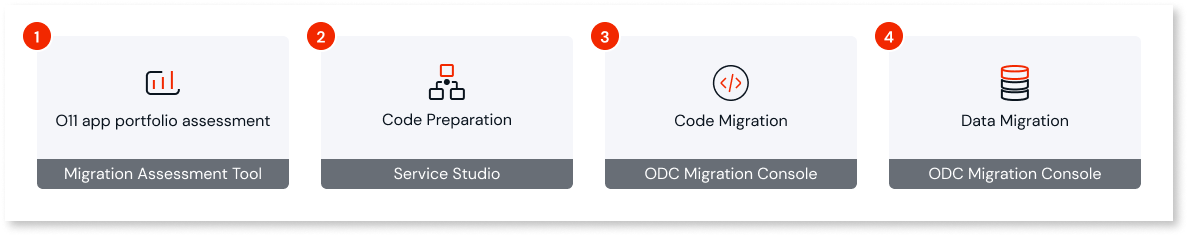
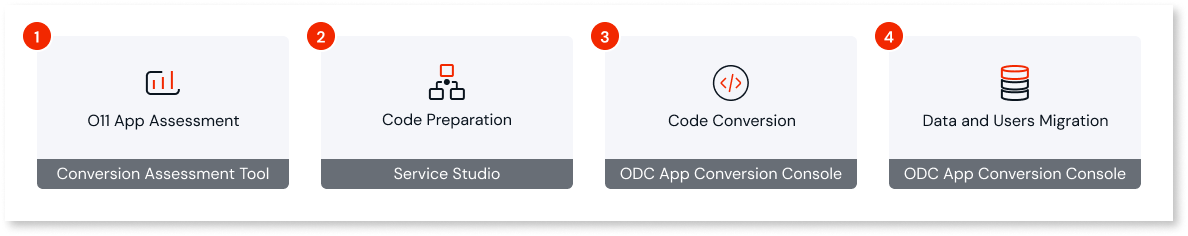
TK-18284 Revamp conversion top level pages

diff --git a/src/migration-to-odc/migration-intro.md b/src/migration-to-odc/migration-intro.md
@@ -1,11 +1,11 @@
 ---
-summary: A comprehensive guide to the process for migrating your apps from O11 to OutSystems Developer Cloud (ODC), including planning, phased migration, and the support available from documentation.
+summary: A comprehensive guide of the process for converting your apps from O11 to OutSystems Developer Cloud (ODC).
 locale: en-us
 guid: 0a6f2684-c594-4eca-9cbf-0780c9b3c5ae
 app_type: traditional web apps, mobile apps, reactive web apps
 platform-version: o11
 figma: https://www.figma.com/file/daglmSUESdKw9J3HdT87a8/O11-to-ODC-migration?type=design&node-id=20%3A241&mode=design&t=IqPW9GPcaNRalD3r-1
-tags: cloud migration, app modernization, cloud-native architecture, scaling strategies, automation tools
+tags: app conversion, app modernization, cloud-native architecture, scaling strategies, automation tools
 audience:
   - full stack developers
   - platform administrators
@@ -13,136 +13,62 @@ audience:
 outsystems-tools:
   - service studio
   - lifetime
+  - app conversion kit
 coverage-type:
   - apply
   - understand
 ---
 
-# OutSystems 11 to ODC migration
+# OutSystems 11 to ODC conversion
 
-Our goal is to enable you to convert your current O11 app portfolio into native ODC apps. Once converted and published on ODC, these apps can leverage all current and future ODC capabilities, such as cloud-native architecture, limitless scaling, and new AI features for businesses and developers.
+The O11 to ODC App Conversion Kit provides the required guidance and tooling to assess the ODC-readiness of the O11 apps you want to convert, prepare them for ODC architecture, and execute a self-paced conversion.
 
-OutSystems provides documentation and migration tools to ease and automate the process of migrating from O11 to ODC code and data.
+![Graphic representation of the supporting materials provided by OutSystems for the conversion from O11 to ODC](images/o11-odc-migration-kit-diag.png "O11 to ODC App Conversion Kit")
 
-![Graphic representation of the supporting materials provided by OutSystems for the migration from O11 to ODC](images/o11-odc-migration-kit-diag.png "O11 to ODC Migration Support Material")
+## Conversion stages
 
-With that in mind, the following topics help you understand the migration process.
+This section gives an overview of the process to convert an O11 app to ODC.
 
-## How to plan for migration
+![Comprehensive diagram outlining the stages of the conversion process from O11 to ODC](images/migration-process-diag.png "Overall Conversion Process Diagram")
 
-OutSystems is committed to making sure that you have an easy migration process and one that fits smoothly into your development team's schedule. You can migrate on a timeline that takes into account your app portfolio and business demand.
+### Stage 1: Plan for the O11 app conversion
 
-Depending on the size of your app portfolio, you may follow different migration journeys. 
+ODC apps are designed to take advantage of cloud-native architecture and microservices design, which promote application-independent lifecycle and ownership. To take full advantage of ODC capabilities, you must ensure your O11 app architecture is aligned with ODC architecture best practices, and assess the ODC-readiness by identifying code patterns that may require refactoring.
 
-* **One-shot migration** is suitable for smaller app portfolios (infrastructures with less than 2 business apps) with up to 300 application objects. You can choose to migrate the entire portfolio at once and have it ported to ODC in a short timeframe.
+Outcomes:
 
-    ![Diagram showing the one-shot migration process for small app portfolios from O11 to ODC](images/one-shot-migration-diag.png "One-Shot Migration Diagram")
+* Visibility over necessary adjustments to convert O11 apps to ODC-compatible apps.  
+* Guidance on how to map existing O11 patterns into ODC constructs.  
+* Overview of the applicational domains, understanding boundaries and app domain prioritization.
 
-* **Coexistence**  is suitable for larger app portfolios (infrastructures with more than 2 apps) where it is essential to continue providing business value and, at the same time, work on the migration activities. With this migration journey, new apps can be created in ODC while you independently migrate apps from O11.
+### Stage 2: Prepare for O11 app conversion
 
-    * **Start using ODC**: ODC tenant for new apps, ability to leverage existing O11 components such as integrations and master data.
+Once you’ve completed the assessment of your O11 app and identified the patterns that are inconsistent with ODC, you must refactor your O11 app in Service Studio to make them ODC compatible, and test the refactored O11 app. This ensures a smooth conversion to ODC:
 
-    * **Prepare and progressively migrate O11 apps**: Assess and migrate O11 apps that will benefit most from ODC capabilities.
+Outcomes:
 
-    * **Complete migration of all apps**: Assess and migrate more complex O11 apps.
-
-    ![Diagram depicting the phased approach for migrating larger app portfolios from O11 to ODC](images/migration-phased-approach-diag.png "Phased Approach to Migration Diagram")
-
-## How migration capabilities will be delivered
-
-Migration capabilities will be delivered incrementally, addressing the most common use cases first, then progressing to more complex ones, and finally aligning with all ODC capabilities. 
-
-![Timeline showing the incremental delivery of migration capabilities from O11 to ODC](images/migration-toolkit-value.png "Migration Capabilities Delivery Timeline")
-
-## Migration stages
-
-![Comprehensive diagram outlining the stages of the migration process from O11 to ODC](images/migration-process-diag.png "Overall Migration Process Diagram")
-
-### Stage 1: Plan for the O11 app migration
-
-ODC applications are designed to take advantage of cloud-native architecture and microservices design, which promote application-independent lifecycle and ownership.
-To take full advantage of ODC capabilities, you must first adjust the O11 app architecture to align with ODC architecture best practices and identify code patterns that require refactoring. 
-
-As you plan for the O11 app migration, you must:
-
-1. Identify the O11 apps to be migrated to ODC, and depending on the complexity of your infrastructure and your team capacity,  choose either one of the migration journeys:
-    * One-shot migration approach
-    * O11-ODC app coexistence approach
-
-1. Design the to-be ODC architecture blueprint.
-
-1. Map the O11 apps to ODC assets.
-
-1. Identify any architectural inconsistencies in your O11 app and adjust the architecture.
-
-1. Estimate the effort required to refactor your O11 app to be ODC compatible. 
-
-#### Outcomes
-
-* Visibility over necessary code adjustments to convert O11 code to ODC-compatible code.
-
-* Guidance on how to map existing O11 code patterns into ODC constructs.
-
-* Overview of the entire factory applicational domains, understanding boundaries and domain prioritization.
-
-
-### Stage 2: Prepare for O11 app migration
-
-Once you have completed the assessment of your O11 apps and identified the inconsistencies in code patterns, you must:
-
-1. Refactor your O11 app in Service Studio to make it ODC compatible. This ensures smooth migration of your O11 app to ODC. 
-
-1. Deploy the refactored app to QA.
-
-1. Test your refactored O11 app.
-
-1. Adjust your development sprints to include O11 app refactoring and O11 app testing, prioritizing them according to your migration timelines.
-
-#### Outcomes
-
-* Implementation of O11 code refactorings to be ODC-compatible
-
+* Implementation of O11 app refactorings to be ODC-compatible.  
 * Testing of your refactored O11 app.
 
+### Stage 3: Execute the code conversion
 
-### Stage 3: Execute the O11 app migration
+Once you’ve prepared your O11 app to align with ODC architecture, you can convert the O11 code to ODC-native code, and publish the converted code to your ODC tenant.
 
-Once you’ve completed the assessment and refactoring of your O11 app, you must:
+Outcomes:
 
-1. Migrate the O11 code to ODC-compatible code.
+* Your O11 app code is converted to ODC.  
+* The app’s O11 entities are mapped into ODC counterparts.  
+* The converted ODC app is published and tested in an ODC development stage.
 
-1. Upload the migrated code to an ODC tenant.
+### Stage 4: Execute the data and users migration
 
-1. Perform additional refactoring of the migrated ODC app.
+After testing and ensuring your app is running as expected in ODC, you can migrate your O11 data and end users to ODC.
 
-1. Test and publish the migrated app.
+Outcomes:
 
-1. Migrate the O11 data to ODC-compatible data.
+* The O11 business data is migrated to the corresponding ODC entities.  
+* The O11 end users are migrated alongside business data.
 
-1. Migrate the O11 end-users.
+## Next steps
 
-1. Configure the migrated ODC app.
-
-#### Outcomes
-
-* O11 app code and data are migrated to ODC.
-
-* O11 entities are mapped into ODC counterparts.
-
-* O11 end-users are migrated to ODC end-users.
-
-* The migrated ODC app is tested and published.
-
-### Stage 4: Launch the ODC app
-
-After migrating the O11 code, data, and end-users and publishing it on ODC, you can test the ODC app and finally launch the migrated ODC app for your end-users.
-
-#### Outcomes
-
-* Migrated ODC app is tested and published.
-
-* The migrated ODC app is launched in Production.
-
-## Starting your migration journey
-
-Start by [planning your apps migration](plan/plan-intro.md).
+Start by [planning your apps conversion](plan/plan-intro.md).

diff --git a/src/migration-to-odc/plan/plan-intro.md b/src/migration-to-odc/plan/plan-intro.md
@@ -1,11 +1,11 @@
 ---
-summary: Plan and prepare app migration from OutSystems 11 (O11) to OutSystems Developer Cloud (ODC).
+summary: Plan app conversion from OutSystems 11 (O11) to OutSystems Developer Cloud (ODC).
 locale: en-us
 guid: 788a3d99-a2fe-4fa2-b868-d2851cd2ffb8
 app_type: traditional web apps, mobile apps, reactive web apps
 platform-version: o11
-figma: https://www.figma.com/design/daglmSUESdKw9J3HdT87a8/O11-to-ODC-migration?node-id=1-852
-tags: app migration, o11 to odc migration, application portfolio management, migration strategies, migration planning
+figma:
+tags: app conversion, o11 to odc conversion, application portfolio management, conversion strategies, conversion planning
 audience:
   - full stack developers
   - architects
@@ -13,43 +13,26 @@ audience:
   - platform administrators
 outsystems-tools:
   - service studio
-  - migration kit
+  - app conversion kit
 coverage-type:
   - understand
   - apply
 ---
 
-# Plan app migration
+# Plan app conversion
 
-The planning phase is the first stage of your [O11 to ODC migration](../migration-intro.md). Once you complete your planning you are ready to start preparing your O11 app portfolio for the migration to ODC, with an understanding of your future ODC architecture, and of the effort required for the O11 app refactoring.
-
-Depending on the size of your app portfolio, you may follow different migration journeys:
-
-* **One-shot migration** is suitable for smaller app portfolios (infrastructures with less than 2 business apps) with up to 300 Application Objects. You can choose to migrate the entire portfolio at once and have it ported to ODC in a short timeframe. Follow this approach if you have been granted access to the Migration Kit, and check the [One-shot migration section](#one-shot) to learn more and start your journey.
-
-    ![Diagram showing the one-shot migration process for small app portfolios from O11 to ODC](images/one-shot-migration-diag.png "One-Shot Migration Diagram")
-
-* **Coexistence** is suitable for larger app portfolios (infrastructures with more than 2 apps) where it is essential to continue providing business value and, at the same time, work on the migration activities. With this migration journey, new apps can be created in ODC while you independently migrate apps from O11. Check the [Prepare O11 application architecture](#coexistence) to start your incremental migration.
-
-    ![Diagram depicting the phased approach for migrating larger app portfolios from O11 to ODC](images/migration-phased-approach-diag.png "Phased Approach to Migration Diagram")
-
-## One-shot migration { #one-shot }
+In the planning phase of the [app conversion process](../migration-intro.md), you get an understanding of the future ODC architecture for the O11 apps you want to convert, and assess their ODC-readiness.
 
 <div class="info" markdown="1">
 
-Follow this approach if you have less than two business apps, less than 300 AOs, and if you been granted access to the Migration Kit. Otherwise, follow the [coexistence approach](#coexistence).
-If you don't have access to the Migration Kit please reach out to your OutSystems account team to get more information.
+If you don't have access to the App Conversion Kit, please reach out to your OutSystems account team to get more information.
 
 </div>
 
-The main steps in the Planning phase of your one-shot migration are the following:
+The main steps in the Planning phase of your O11 to ODC conversion are the following:
 
-1. [Set up the Migration Assessment Tool](../setup-assessement-tool.md)
-
-1. [Map O11 to ODC architecture for one-shot migration](plan-map-apps.md)
-
-1. [Assess app refactoring](plan-assess-refactor.md)
-
-## Coexistence approach { #coexistence }
-
-OutSystems is preparing the guidance for the coexistence migration.
+1. [Set up the Conversion Assessment Tool](../setup-assessement-tool.md).  
+1. [Design the to-be ODC architecture blueprint](plan-map-apps.md#design-arch) for the O11 apps you want to convert.  
+1. [Map the O11 apps to ODC assets](plan-map-apps.md#map-in-tool).  
+1. [Define conversion plans](plan-define-migration-plans.md) to group sets of apps that you want to  convert independently.  
+1. [Assess the ODC-readiness](plan-assess-refactor.md) of your O11 apps.
